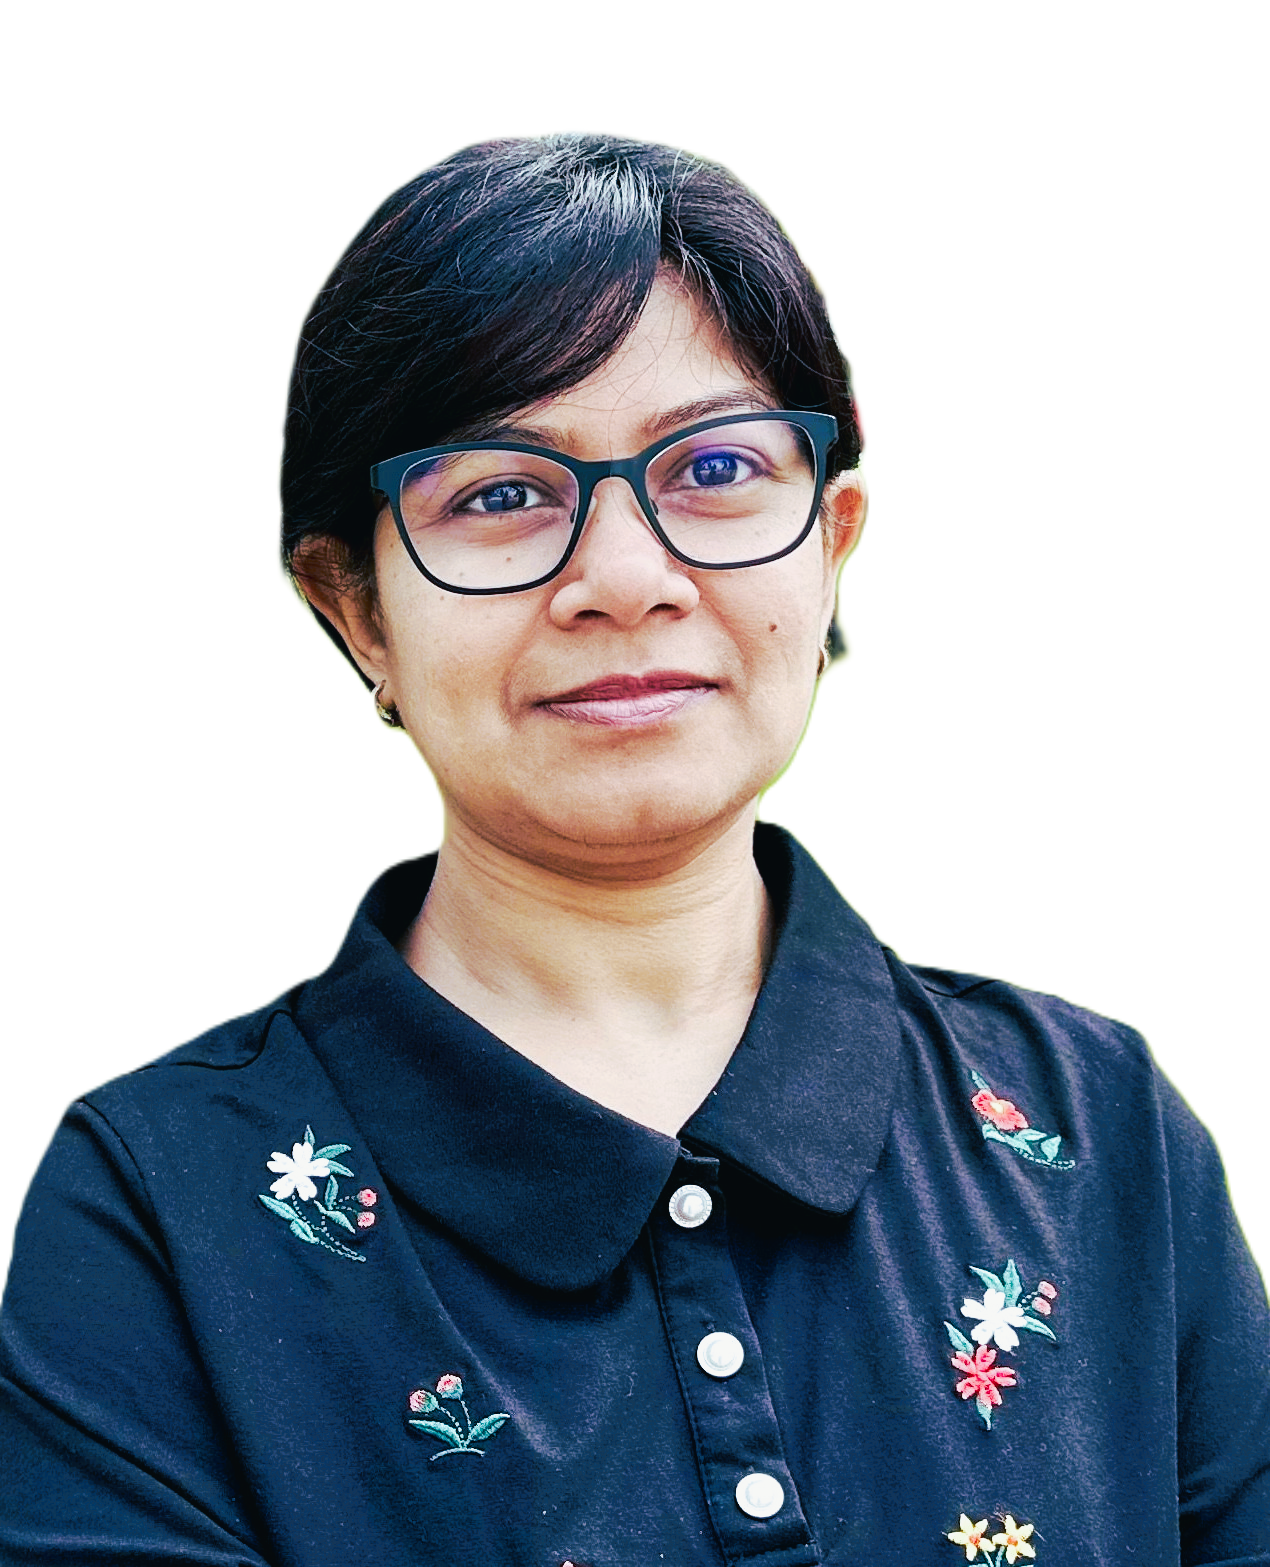
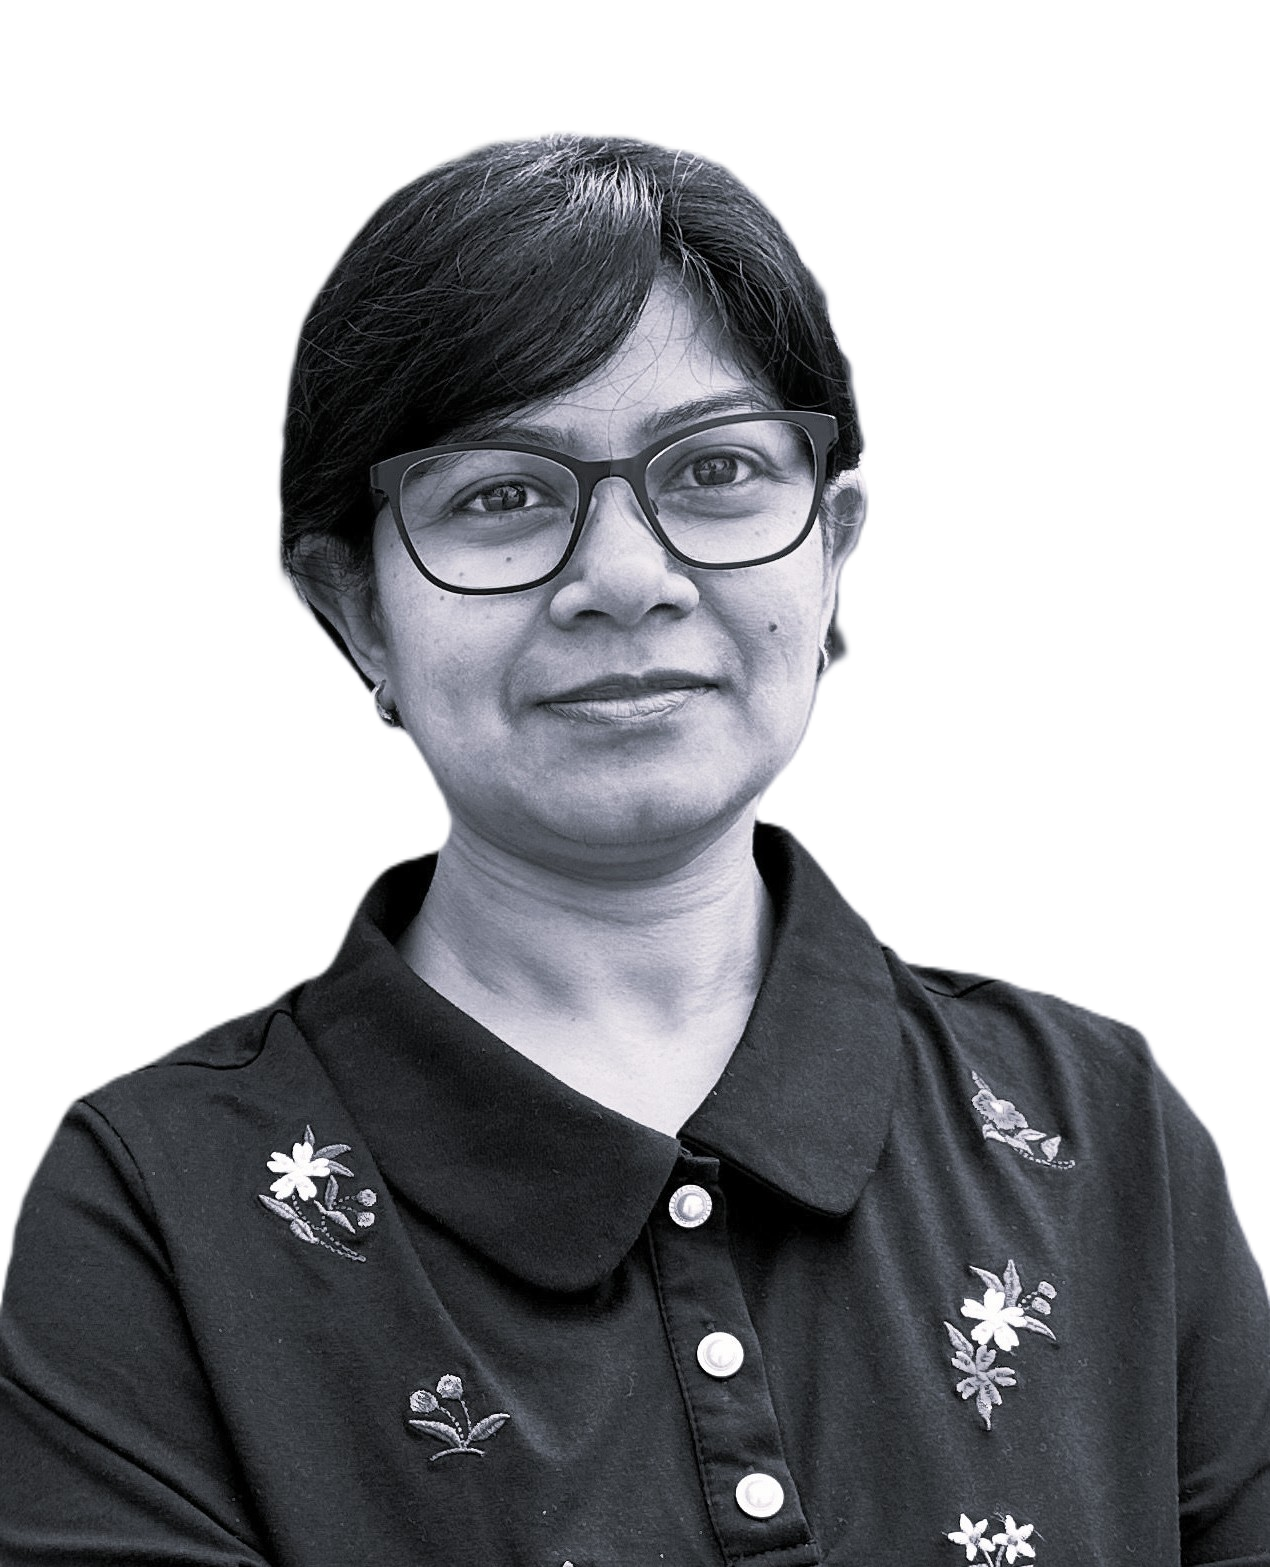
Lagt till bilder på alla sidor

diff --git a/skills.html b/skills.html
@@ -62,7 +62,7 @@
         <div class="home-img">
             <div class="img-box">
                 <div class="img-item">
-                    <img src="image\Svartvitwithout background.png" alt="Foto på mig">
+                    <img src="image\Fatema.png" alt="Foto på mig">
                 </div>
             </div>
 

diff --git a/aboutMe.html b/aboutMe.html
@@ -60,7 +60,7 @@
         <div class="home-img">
             <div class="img-box">
                 <div class="img-item">
-                    <img src="image\colornoback2.png" alt="Foto på mig">
+                    <img src="image\Fatema.png" alt="Foto på mig">
                 </div>
             </div>
 

diff --git a/certificats.html b/certificats.html
@@ -62,7 +62,7 @@
         <div class="home-img">
             <div class="img-box">
                 <div class="img-item">
-                    <img src="image\Motiv.png" alt="Foto på mig">
+                    <img src="image\Fatema.png" alt="Foto på mig">
                 </div>
             </div>
 

diff --git a/contctInfo.html b/contctInfo.html
@@ -57,7 +57,7 @@
         <div class="home-img">
             <div class="img-box">
                 <div class="img-item">
-                    <img src="image\Motiv.png" alt="Foto på mig">
+                    <img src="image\Fatema.png" alt="Foto på mig">
                 </div>
             </div>
 

diff --git a/experiences.html b/experiences.html
@@ -61,7 +61,7 @@
         <div class="home-img">
             <div class="img-box">
                 <div class="img-item">
-                    <img src="image\Motiv.png" alt="Foto på mig">
+                    <img src="image\Fatema.png" alt="Foto på mig">
                 </div>
             </div>
 
